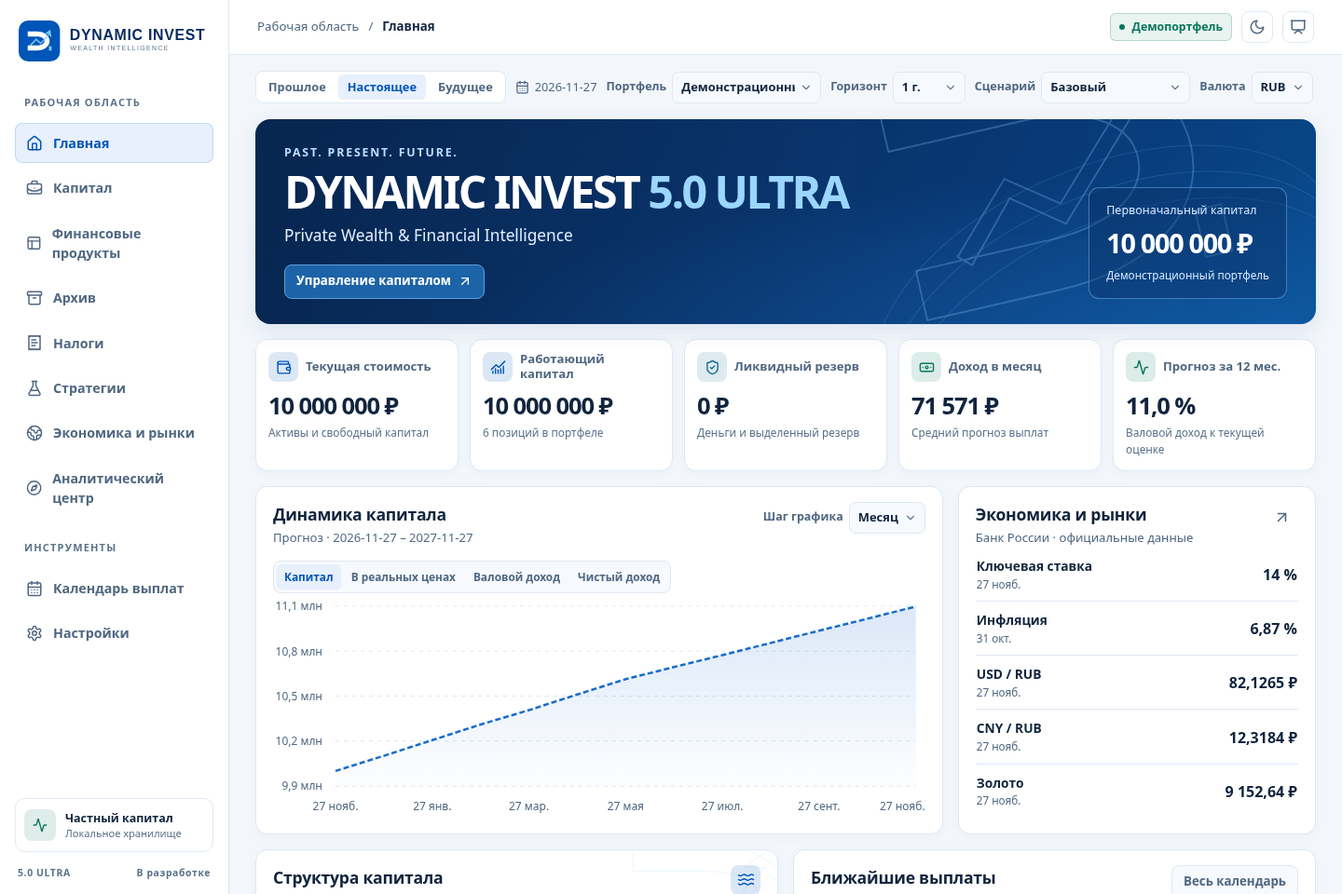
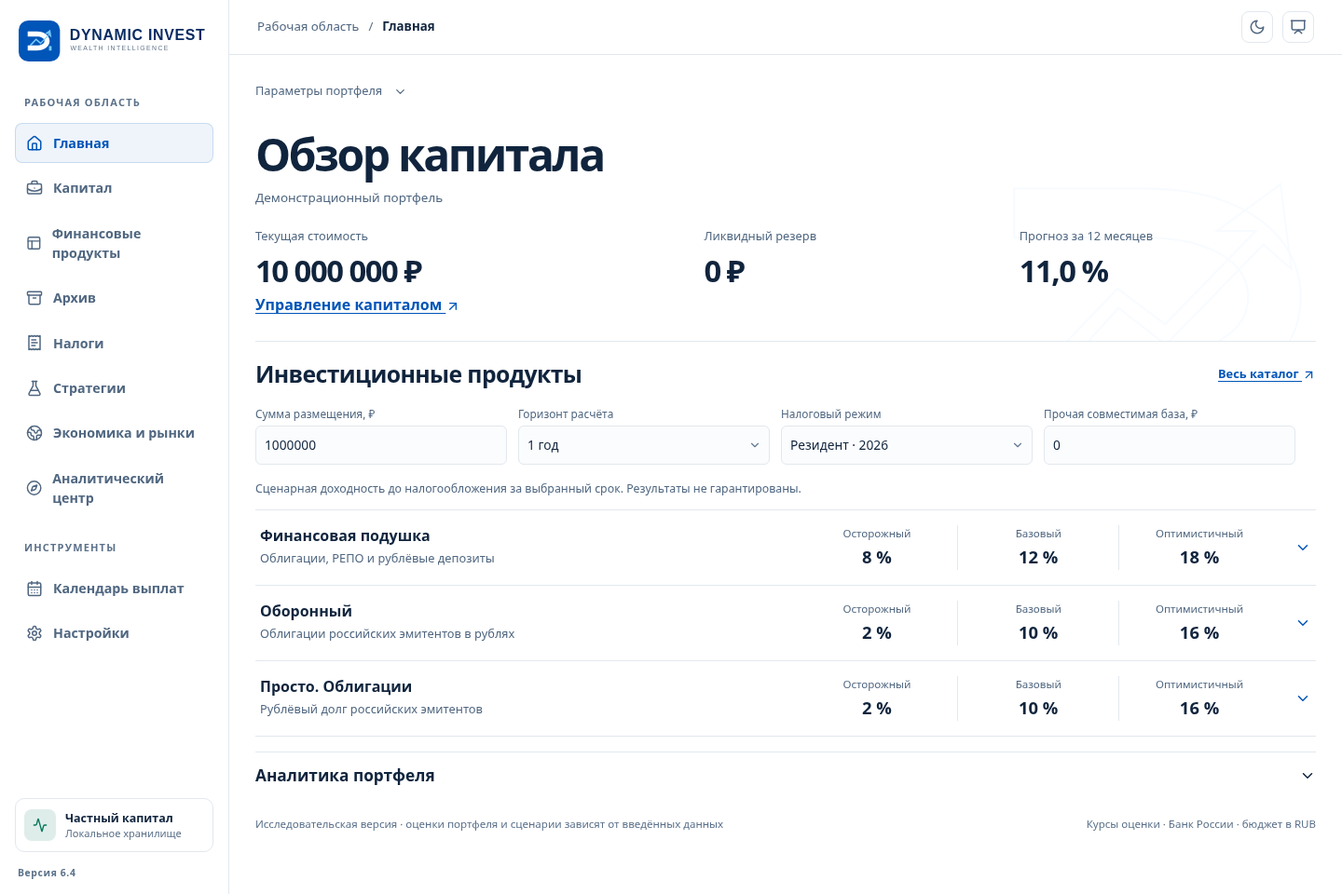
Document release scope and capture tested layouts

diff --git a/ACCEPTANCE-CHECKLIST.md b/ACCEPTANCE-CHECKLIST.md
@@ -1,10 +1,10 @@
 # Критерии приёмки 5.0 ULTRA
 
-Статус относится к ветке `feat/dynamic-invest-5.0-ultra`. «Проверен» означает, что есть модульный тест или воспроизводимый сценарий. Тесты интерфейса находятся в [tests/ultra.spec.ts](tests/ultra.spec.ts) и [tests/continuation.spec.ts](tests/continuation.spec.ts).
+Таблица ниже относится к требованиям 5.0. Отдельная приёмка версии 6.4 следует после неё. «Проверен» означает, что есть модульный тест или воспроизводимый сценарий. Тесты интерфейса находятся в [tests/ultra.spec.ts](tests/ultra.spec.ts) и [tests/continuation.spec.ts](tests/continuation.spec.ts).
 
 | № | Критерий | Статус | Доказательство или граница |
 | --- | --- | --- | --- |
-| 1 | Открыть работающий сайт | Заблокирован внешним ограничением | Сборка работает из /DYNAMIC-INVEST/ в Chromium. На публичном URL версия 1.0. Для 5.0 требуется одобрение и слияние владельцем |
+| 1 | Открыть работающий сайт | Реализован и проверен | Публичный URL возвращает HTTP 200 и метаданные 5.0. Production-сборка 6.4 проверяется на том же base path в Chromium |
 | 2 | Бело-синий интерфейс | Реализован и проверен | Chromium и скриншоты, светлая тема по умолчанию |
 | 3 | Создать портфель | Реализован и проверен | Chromium проходит создание, изменение бюджета и добавление позиции |
 | 4 | Добавить десять вкладов | Реализован и проверен | Модульный тест десяти позиций, ограничение до 100, проверка формы в Chromium |
@@ -44,3 +44,18 @@
 | 38 | Смартфон | Реализован и проверен | Chromium проверяет ширины 320 и 360 px и мобильное меню |
 | 39 | Работать без платных API | Реализован и проверен | Статическая сборка и версия снимка в репозитории |
 | 40 | Фактический статус модулей | Реализован и проверен | Эта матрица и IMPLEMENTATION-STATUS.md |
+
+
+## Приёмка 6.4 Pure White
+
+| Критерий | Статус | Доказательство или граница |
+| --- | --- | --- |
+| Главная без повторяющихся KPI, встроенные мини-слайды | Проверено | [Chromium](tests/mini-slides.spec.ts) и [регрессия главной](tests/ultra.spec.ts) |
+| 12 открытых и 4 биржевых фонда, три приоритетных позиции, устойчивые ID | Проверено | [Снимок КИД](src/market/fundDisclosures.ts) и [проверка данных](src/finance/miniSlides.test.ts) |
+| Свёрнутые карточки без рублей, три горизонтальных сценария | Проверено | Chromium при 320, 360, 768, 1024 и 1440 px |
+| Одновременные раскрытия сохраняются при пересчёте | Проверено | Chromium меняет капитал, горизонт, режим, совместимую базу и проверяет вложенное раскрытие |
+| Расчёт до и после налога, совокупная и годовая доходность | Проверено для модели | Модульные примеры, включая порог 2,4 млн ₽, убыток, срок больше трёх лет и отсутствие банковского лимита в модели фондов |
+| Составы, исторические результаты, комиссии и доступность | Частично | Составы и условия получены из документов УК. Валютные веса, отдельные периоды и фактическую возможность заключить сделку по каждой позиции подтвердить не удалось |
+| Вклады, счета, золото, облигации, ЦФА, ДУ, ПДС и страхование в одном каталоге | Частично | Договорные категории раскрываются на месте. Для пяти типов есть модели. ДУ, ПДС, НСЖ, ИСЖ и ДСЖ требуют индивидуальных договоров |
+| Требования 6.2 и 6.3 | Не удалось сверить | В доступной истории репозитория и задании отсутствуют тексты этих версий. Проверены регрессии объединённой базы из PR №2 |
+| Публикация 6.4 по исходному URL | Ожидает слияния | Сборка использует `/DYNAMIC-INVEST/`. Публикация из `main` после решения владельца |

diff --git a/IMPLEMENTATION-STATUS.md b/IMPLEMENTATION-STATUS.md
@@ -1,6 +1,6 @@
 # Состояние реализации
 
-Ветка содержит работоспособный незавершённый этап 5.0 ULTRA. Маркер пакета — 5.0.0-alpha.1.
+Текущая итерация 6.4 Pure White основана на `main` после слияния PR №2. Таблица сохраняет статус исходных модулей.
 
 | Этап | Состояние | Что остаётся |
 | --- | --- | --- |
@@ -8,7 +8,7 @@
 | 5.0.2 Premium Experience | Айдентика, светлая и тёмная темы, навигация, адаптация, watermark | Аппаратный прогон на планшете |
 | 5.0.3 Capital Engine | Несколько портфелей, 100 позиций, бюджет, миграция, журнал прогноза, облигационные расчёты | Хранение фактических операций, отдельные договорные конвенции и подтверждение исторических остатков |
 | 5.0.4 Tax & Cash Flow | Банковский НДФЛ, налог по биржевым ценным бумагам и российским дивидендам за 2025–2026, календарь и экспорт | ИИС, ЦФА, драгметаллы, вычеты и сверка нескольких переносов |
-| 5.0.5 Live Financial Data | Шесть рядов ЦБ, четыре датированных снимка витрины ПСБ, валидируемые адаптеры и планировщик рынка | Прямые запросы к ПСБ и MOEX ISS возвращают 503. Автоматическое обновление тарифов, фонды и текущие ЦФА остаются открыты |
+| 5.0.5 Live Financial Data | Шесть рядов ЦБ, четыре датированных снимка витрины ПСБ, валидируемые адаптеры и планировщик рынка | Прямые запросы к ПСБ и MOEX ISS возвращают 503. Автоматическое обновление тарифов и текущие ЦФА остаются открыты |
 | 5.0.6 Financial Time Machine | 19 датированных записей, котировки ЦБ, Wayback и воспроизведение портфеля с журналом JSON, TWR, XIRR и тестами против заглядывания | Автоматические корпоративные действия, расширение официальных рядов и извлечение тарифов из архивных снимков |
 | 5.0.7 Strategy & Risk | Годовые ставки, FX, инфляция и рыночные сдвиги с проверкой границ, до пяти портфелей, концентрация и цели | Историческая реконструкция ликвидности из выписок, расширенные стрессы и АСВ |
 | 5.0.8 Private Wealth Studio | Обезличенные предложения, печать, загружаемый кириллический PDF, XLSX, базовый Business Lab | Кастомные модели вознаграждения и варианты оформления отчёта |
@@ -16,3 +16,13 @@
 | 5.0.10 Release | Готова ветка для ревью и проверки | Подтверждение готовности и слияние владельцем, контроль новой публикации |
 
 Методы и проверенные сценарии сведены в [ACCEPTANCE-CHECKLIST.md](ACCEPTANCE-CHECKLIST.md). Источники и фактические даты находятся в [DATA-SOURCES.md](DATA-SOURCES.md).
+
+
+## 6.4 Pure White
+
+- На главной остаются текущая стоимость, ликвидный резерв и прогноз годовой доходности. Графики и журнал доступны в «Аналитике портфеля».
+- Каталог включает 16 фондов, раскрытия КИД и пять горизонтов. Сумма, горизонт и налоговые параметры общие для главной и полного каталога в текущем сеансе.
+- Выход из фондов моделируется одной продажей или погашением. Для «Дивидендных акций» и «Финансового потока» в сценариях учитывается изменение стоимости пая, а отдельные выплаты указаны в ограничениях.
+- Для вклада, накопительного счёта, облигации, золота и ЦФА доступны условные расчёты. ДУ, ПДС и три вида страхования описаны по экономике и условиям выхода.
+- Каталог фондов использует датированный снимок УК. Автосбор рыночных данных 5.0 работает отдельно. Снимок не утверждает, что любой продукт доступен конкретному клиенту.
+- Публичный адрес подтверждён для 5.0. Версия 6.4 подготовлена к ревью.

diff --git a/README.md b/README.md
@@ -1,13 +1,14 @@
 # DYNAMIC INVEST · Private Wealth & Financial Intelligence
 
-DYNAMIC INVEST объединяет учёт частного капитала, финансовую математику и исследование официальных данных в одном локальном терминале. В этой ветке находится незавершённая сборка **5.0 ULTRA**. На [публичной демонстрации](https://vladislavly07.github.io/DYNAMIC-INVEST/) опубликована базовая 1.0.
+DYNAMIC INVEST объединяет учёт частного капитала, финансовую математику и исследование официальных данных. Версия 6.4 Pure White добавляет каталог с аналитическими мини-слайдами. Публикация на [GitHub Pages](https://vladislavly07.github.io/DYNAMIC-INVEST/) выполняется из `main`.
 
-![Обзор капитала в 5.0 ULTRA](docs/screenshots/dashboard-1440.png)
+![Обзор капитала](docs/screenshots/dashboard-1440.png)
 
-[Конструктор](docs/screenshots/constructor.png) · [Налоги](docs/screenshots/tax.png) · [Архив](docs/screenshots/archive.png) · [Сценарии](docs/screenshots/strategy.png) · [Презентация](docs/screenshots/presentation.png) · [1024 px](docs/screenshots/dashboard-1024.png) · [768 px](docs/screenshots/dashboard-768.png) · [360 px](docs/screenshots/dashboard-360.png)
+[Мини-слайд на компьютере](docs/screenshots/investment-slides-1440.png) · [На смартфоне](docs/screenshots/investment-slides-360.png) · [Конструктор](docs/screenshots/constructor.png) · [Налоги](docs/screenshots/tax.png) · [Архив](docs/screenshots/archive.png) · [Сценарии](docs/screenshots/strategy.png) · [Презентация](docs/screenshots/presentation.png)
 
 ## Что доступно
 
+- Каталог 12 открытых и 4 биржевых фондов УК ПСБ с источниками, историей, комиссиями и составами в пределах раскрытия. Все сценарии используют общую сумму, горизонт и параметры налога.
 - Несколько портфелей, ограничение бюджета, сохранение договорных параметров, резервные копии, JSON и CSV.
 - Прогноз капитала, календарь выплат, детализация до события и отдельные записи для дохода, переоценки, номинала, комиссии и условного налога.
 - Обычные банковские проценты и расчёт НДФЛ 2023–2026. Формулы, исключения и источники доступны в разделе «Налоги».

diff --git a/DATA-SOURCES.md b/DATA-SOURCES.md
@@ -28,3 +28,10 @@
 - Обновление карточек требует проверки официальных условий и добавления новой версии в `src/market/psb.ts`. Ежедневный сбор рыночных рядов ЦБ и MOEX ISS остаётся отдельным. Запланированный прямой сбор ПСБ отсрочен до доступного разрешённого канала.
 
 Датированные публикации архива включают запуск «Импульса» и прежнюю шкалу «Вектора», а также отдельные условия «Народного вклада» и «Народного счёта». [ПСБ от 27.10.2026](https://www.psbank.ru/bank/press/news/2026/10/27-01) · [ПСБ от 25.11.2024](https://www.psbank.ru/bank/press/news/2024/11/25-01) · [ПСБ от 02.09.2025](https://www.psbank.ru/bank/press/news/2025/09/02-02)
+
+
+## Снимок УК ПСБ для каталога 6.4
+
+На 27.11.2026 проверены каталог и раскрытия 12 открытых и 4 биржевых фондов. Идентификаторы взяты из регистрационных номеров правил. КИД содержат пять крупнейших позиций или весь опубликованный список, если их меньше, исторические результаты и комиссии. Структура с карточек открытых фондов хранится отдельно от позиций КИД. Даты состава, дата документа и дата раскрытия могут различаться. Валютная часть использует только прямо указанные в документах сведения. [ОПИФ](https://www.upravlyaem.ru/disclosure/mutual_funds/) · [БПИФ](https://www.upravlyaem.ru/disclosure/BPIF/).
+
+Данные проверенного снимка хранятся в [fundDisclosures.ts](src/market/fundDisclosures.ts) с прямыми ссылками на каждый КИД. Для двух КИД дата исторической оценки в заголовках таблиц отсутствует. Аналитические ставки приложения являются модельными допущениями. Сайт УК подтверждает раскрытие фонда и его правила. Биржевой статус исполнения заявки, остатки, доступ конкретного инвестора и актуальные комиссии посредника требуют отдельного подтверждения.

diff --git a/NEXT-STEPS.md b/NEXT-STEPS.md
@@ -1,8 +1,8 @@
 # Точка продолжения
 
-Работа продолжается в `feat/dynamic-invest-5.0-ultra` и PR №2. Итерация добавила каталог официальных снимков ПСБ, архив, расчёт НДФЛ по бумагам и дивидендам, исторический журнал, параметры по годам, валютную лабораторию и отчёты. Статусы приведены в IMPLEMENTATION-STATUS.md и ACCEPTANCE-CHECKLIST.md.
+Версия 6.4 разработана в `feat/6.4-financial-mini-slides` на базе объединённого PR №2. Главная, каталог, расчёты и сценарии выпуска описаны в IMPLEMENTATION-STATUS.md и ACCEPTANCE-CHECKLIST.md.
 
-1. Уточнить разрешённый прямой источник тарифов ПСБ. Проверить документ, интервал действия и матрицу для каждого продукта. Добавлять новые версии без перезаписи старых. Проверить доступ к расширенным рядам фондов и облигаций, публикации УК ПСБ и Токеона.
+1. Обновлять снимок раскрытий УК с проверкой номера правил, дат и состава. Для валютных долей, выплат по паям, цен и фактической доступности нужны дополнительные официальные раскрытия. Проверить разрешённые прямые источники тарифов ПСБ и документы ЦФА.
 2. Привести исторические даты к подтверждённым временам публикаций. Подключить корпоративные действия, цены биржевых инструментов и исторические банковские договоры с валидированными событиями. Поддержать импорт фактических операций из нескольких форматов.
 3. Расширить налоги. Проработать переносы нескольких вкладов, необращающиеся бумаги, ЦФА, ИИС, вычеты, иностранные дивиденды и комиссии с документальными правилами. Учитывать единый резерв до выплаты.
 4. Расширить ликвидность, АСВ, стрессы, Smart Alerts и учебные кейсы. Сопоставить расчёты с независимыми эталонами.

diff --git a/TAX-METHODOLOGY.md b/TAX-METHODOLOGY.md
@@ -22,3 +22,8 @@
 Положительный финансовый результат уменьшает вручную подтверждённый совместимый убыток. Для части базы до остатка порога 2,4 млн ₽ применяется 13%, для остального 15%. Укажите уже занявшую порог совместимую базу, включая облагаемый остаток банковских процентов при применимости. Оценка остатка к уплате учитывает указанное удержание. [ФНС · пример реализации](https://www.nalog.gov.ru/rn77/news/activities_fts/16674056/) · [ФНС · шкала НДФЛ](https://www.nalog.gov.ru/nu/)
 
 Вкладка «Дивиденды» использует отдельный порог 2,4 млн ₽ для вручную указанной базы российских дивидендов налогового резидента, выплаченных в 2025–2026 годах. Иностранные выплаты, зачёты, налоговые вычеты и ИИС остаются вне этой модели. [ФНС · отдельная база дивидендов](https://www.nalog.gov.ru/rn07/promo/new2025/)
+
+
+## Налоговые сценарии каталога
+
+Модель фондов использует положительный результат реализации, выраженный в рублях. Для резидента применяется шкала 2026 года 13%/15% с порогом 2,4 млн ₽ и учётом заданной совместимой базы. Шкала 2026 года удерживается как допущение для всего горизонта. Необлагаемый лимит банковских процентов и вычет за долгосрочное владение к фондам в этой модели не применяются. Режим «Пример · 13%» иллюстрирует единую ставку без вычетов. Отдельные выплаты по паям и их налоги не входят в модель. [ФНС](https://www.nalog.gov.ru/rn77/news/activities_fts/16674056/).

diff --git a/ARCHITECTURE.md b/ARCHITECTURE.md
@@ -18,3 +18,7 @@ React, TypeScript и Vite формируют статическое прилож
 Рыночный JSON загружается с того же origin под base URL. Архивные метаданные и профессиональные экраны загружаются по требованию. Планировщик GitHub Actions записывает снимок в артефакт Pages. Постоянный сервер отсутствует.
 
 В продолжении добавлены `src/backtest` для исторического воспроизведения, `src/tax/securities.ts` для инвестиционных баз и `src/features/china.ts` для валютного сравнения. Прогнозный журнал принимает годовые параметры через `ProjectionOptions.years`. Модули PDF и XLSX загружаются по запросу. PDF содержит встроенный кириллический шрифт DejaVu, лицензия размещена рядом со шрифтом. XLSX создаётся как архив Open XML, данные записываются числами либо строками без исполняемых формул.
+
+## Каталог 6.4
+
+`src/market/fundDisclosures.ts` хранит проверяемый снимок раскрытий управляющей компании с устойчивыми номерами правил. `src/finance/miniSlides.ts` использует существующие налоговые модули для применения ставок, независимо от интерфейса. Общие параметры сценария находятся в состоянии приложения. Каждая строка каталога отдельно хранит признак раскрытия. Настройки каталога действуют в текущем сеансе.

diff --git a/USER-GUIDE.md b/USER-GUIDE.md
@@ -17,3 +17,8 @@
 - В «Архиве» заполните веса исторического портфеля либо импортируйте журнал JSON. После расчёта можно сохранить дневные оценки в CSV.
 - В «Стратегиях» раскройте «Параметры по календарным годам», выберите год, добавьте строку и измените ставки. Данные сценария сохраняются локально.
 - В «Аналитическом центре» выберите «RUB / CNY» для сравнения и оценки курса безубыточности, «Академия» для примеров и «Отчёт» для скачивания PDF и XLSX. PDF содержит модель, график и риски. XLSX содержит дополнительно журнал событий и числовые значения для дальнейшего анализа.
+
+
+## Фонды и мини-слайды
+
+Откройте «Финансовые продукты». Укажите сумму, срок и налоговый режим, затем нажмите строку фонда. Вверху панели появятся проценты, прибыль, итоговая стоимость и НДФЛ. Далее доступны состав, описание рисков и отдельные раскрытия документов. Можно держать несколько панелей открытыми при изменении всех параметров. Банковские наблюдения со сравнением и избранным находятся во вкладке «Вклады и счета ПСБ».

diff --git a/DESIGN-SYSTEM.md b/DESIGN-SYSTEM.md
@@ -1,6 +1,6 @@
 # Визуальная система
 
-Светлая тема использует фон #F3F7FC, белые панели, глубокий синий #082B62, рабочий синий #0055B8, текст #10243D и границы #DFE8F2. Тёмная тема переопределяет те же роли через CSS variables. Цвет модели, метаданные и подписи различают прогноз и официальные наблюдения.
+Светлая тема Pure White использует белый фон и белые панели, синие акценты #0055B8, текст #10243D и тонкие границы #E2E8EE. Строка фонда открывает панель непосредственно под названием. Три колонки сценариев остаются горизонтальными на смартфоне. Тёмная тема переопределяет те же роли через CSS variables. Цвет модели, метаданные и подписи различают прогноз и официальные наблюдения.
 
 Авторский знак, светлый и тёмный логотипы, монограмма, SVG-обложка и PNG для предпросмотра находятся в `public/brand`. В настройках можно отключить водяной знак. Шрифт использует локальный системный стек с кириллицей. Числа финансовых таблиц и карточек табличные.
 

diff --git a/DEPLOYMENT.md b/DEPLOYMENT.md
@@ -1,6 +1,6 @@
 # GitHub Pages
 
-Исходная проверка подтвердила Pages source GitHub Actions, успешное развёртывание main в запуске [45993444403](https://github.com/VladislavLy07/DYNAMIC-INVEST/actions/runs/45993444403) и HTTP 200 на [публичном URL](https://vladislavly07.github.io/DYNAMIC-INVEST/). На момент подготовки ветки по этому адресу работает версия 1.0.
+Исходная проверка подтвердила Pages source GitHub Actions, успешное развёртывание main в запуске [45993444403](https://github.com/VladislavLy07/DYNAMIC-INVEST/actions/runs/45993444403) и HTTP 200 на [публичном URL](https://vladislavly07.github.io/DYNAMIC-INVEST/). При проверке перед релизом 6.4 публичный сайт возвращал HTTP 200 с метаданными 5.0. Для PR запускаются сборка и Chromium, а публикация запускается из main.
 
 После одобрения и слияния ветки в main workflow проверит код, подготовит `dist/`, подтянет снимок и опубликует артефакт. Vite base — `/DYNAMIC-INVEST/`. Hash-маршрутизация позволяет открывать подстраницы без обратного серверного маршрута.
 

diff --git a/PLANS.md b/PLANS.md
@@ -21,3 +21,10 @@
 ## Продолжение 5.0.0-alpha.1
 
 Итерация реализовала ограниченный актуальный каталог и архив, отдельные инвестиционные налоговые базы, историческое портфельное воспроизведение, годовые сценарии, RUB / CNY, учебные уроки и выгрузку PDF / XLSX. Подробные проверки и ограничения отражены в матрице приёмки. Следующая очередь зависит от доступности официальных тарифных документов и подтверждённых данных отдельных инструментов.
+
+
+## 6.4 · Financial Mini Slides
+
+1. Использовать номера правил фондов как ключи и хранить даты КИД, публикации и состава отдельно.
+2. Показать три сценария в строке, а денежные расчёты, составы и официальные источники раскрывать под строкой.
+3. Проверить пересчёт, доступность с клавиатуры и адаптацию production-сборки. Публикация выполняется после ревью и слияния в `main`.
